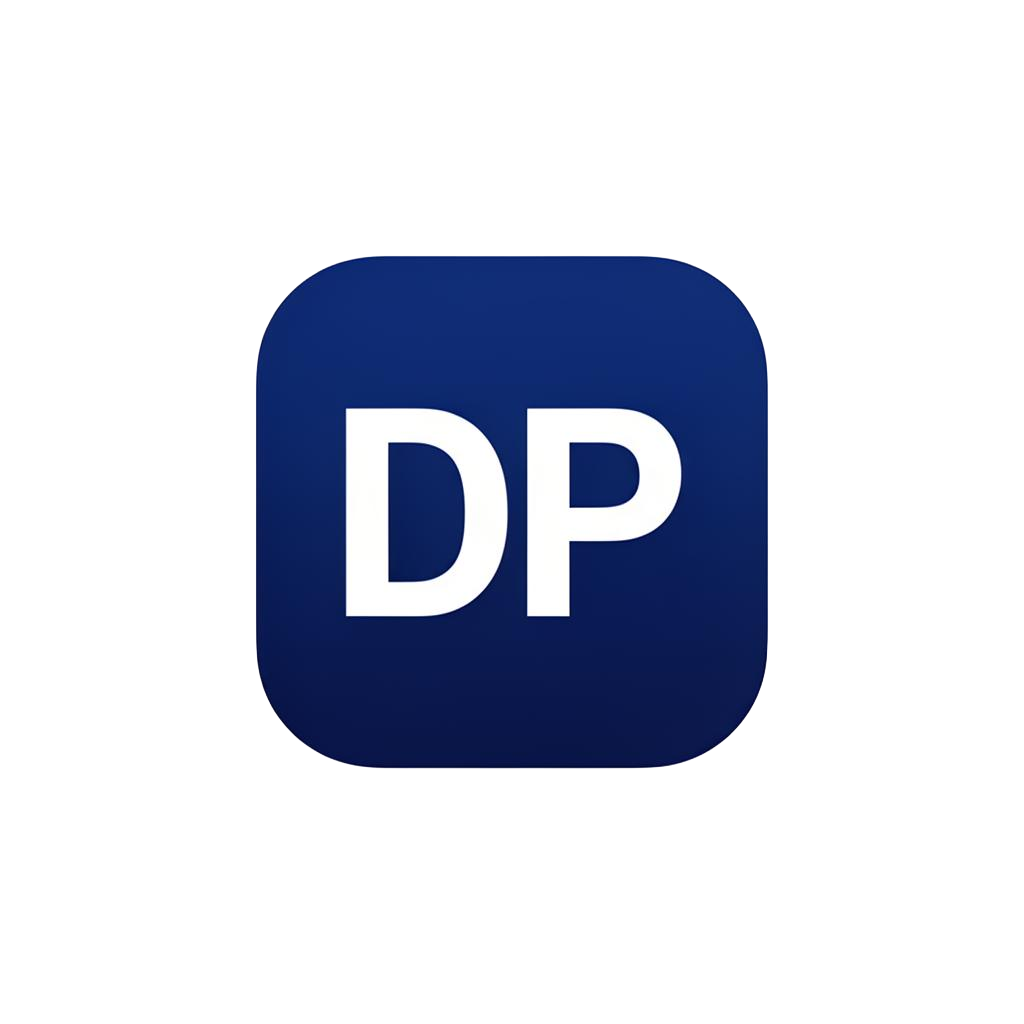
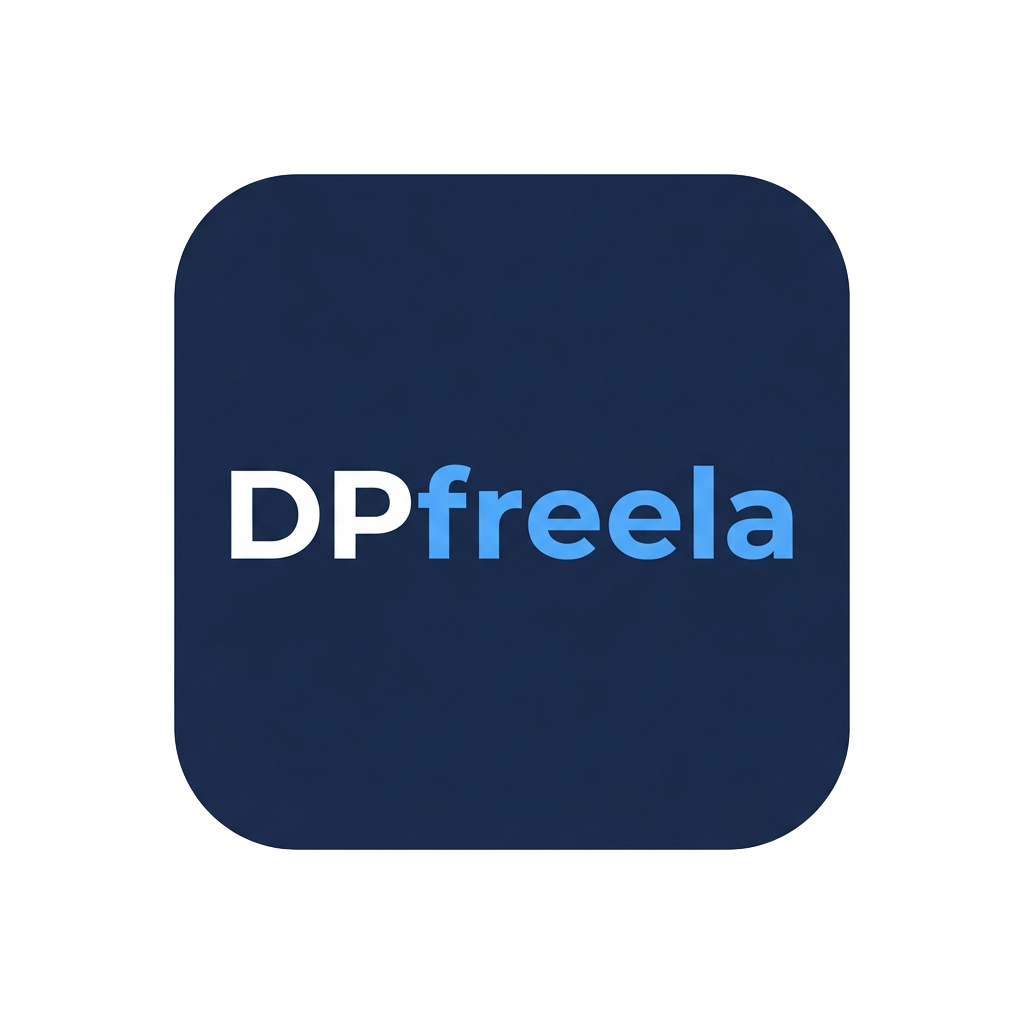
Atualizou ícone DP/Freela

diff --git a/index.html b/index.html
@@ -3,7 +3,10 @@
   <head>
     <meta charset="UTF-8" />
     <meta name="viewport" content="width=device-width, initial-scale=1.0" />
-    <!-- TODO: Set the document title to the name of your application -->
+    <link rel="icon" type="image/png" href="/favicon.png" />
+    <link rel="apple-touch-icon" href="/icon-192.png" />
+    <link rel="manifest" href="/manifest.json" />
+    <meta name="theme-color" content="#1a2744" />
     <title>DPFreela</title>
     <meta name="description" content="Gestão de Pessoal para Eventos">
     <meta name="author" content="Lovable" />
